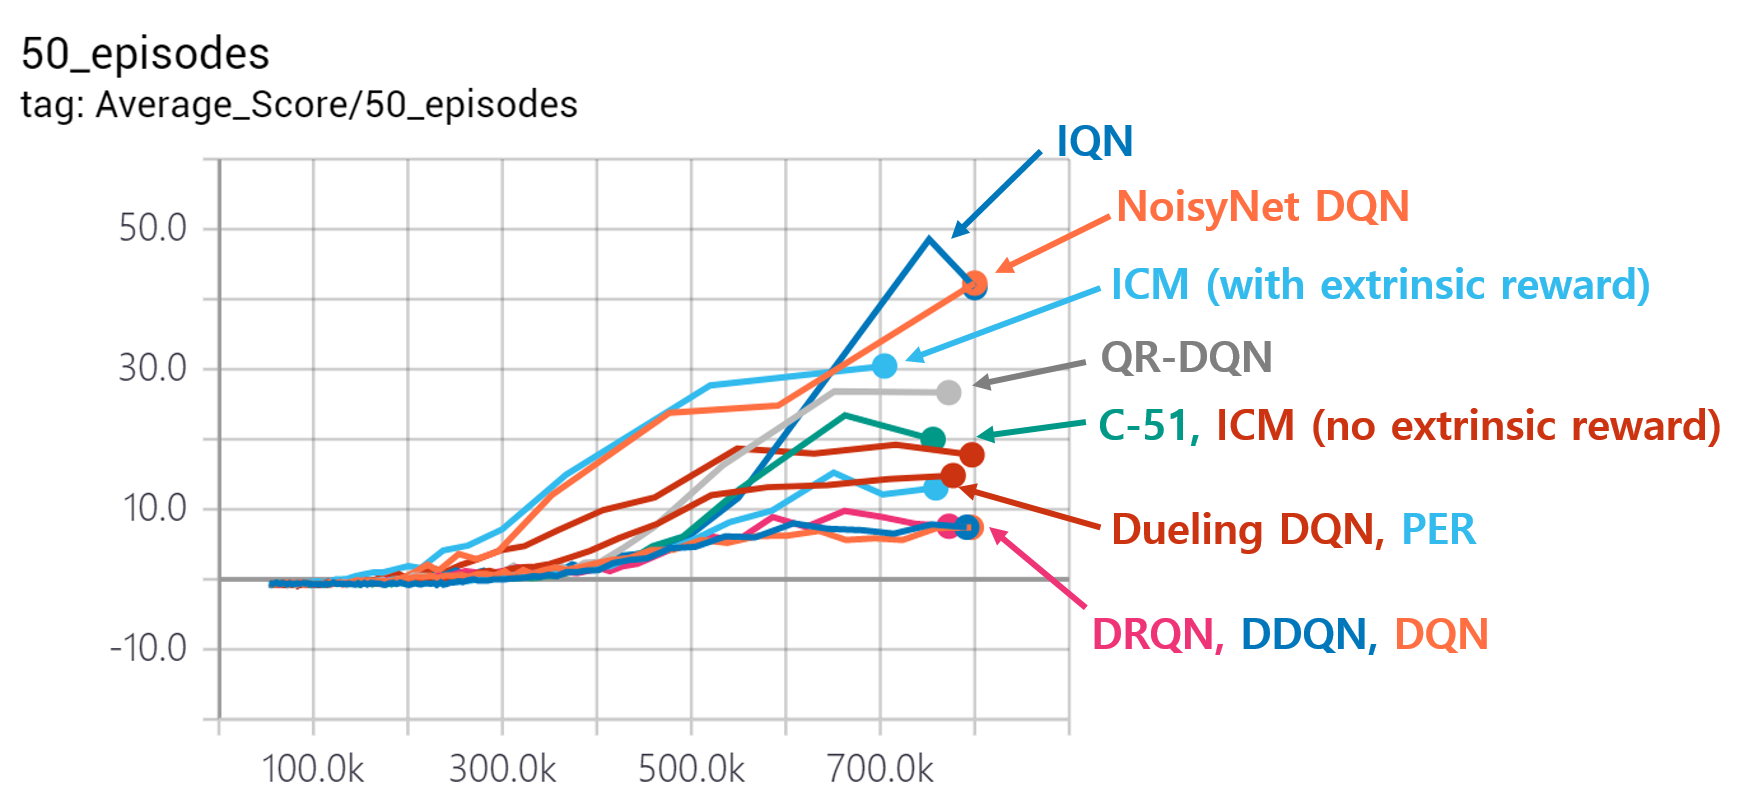
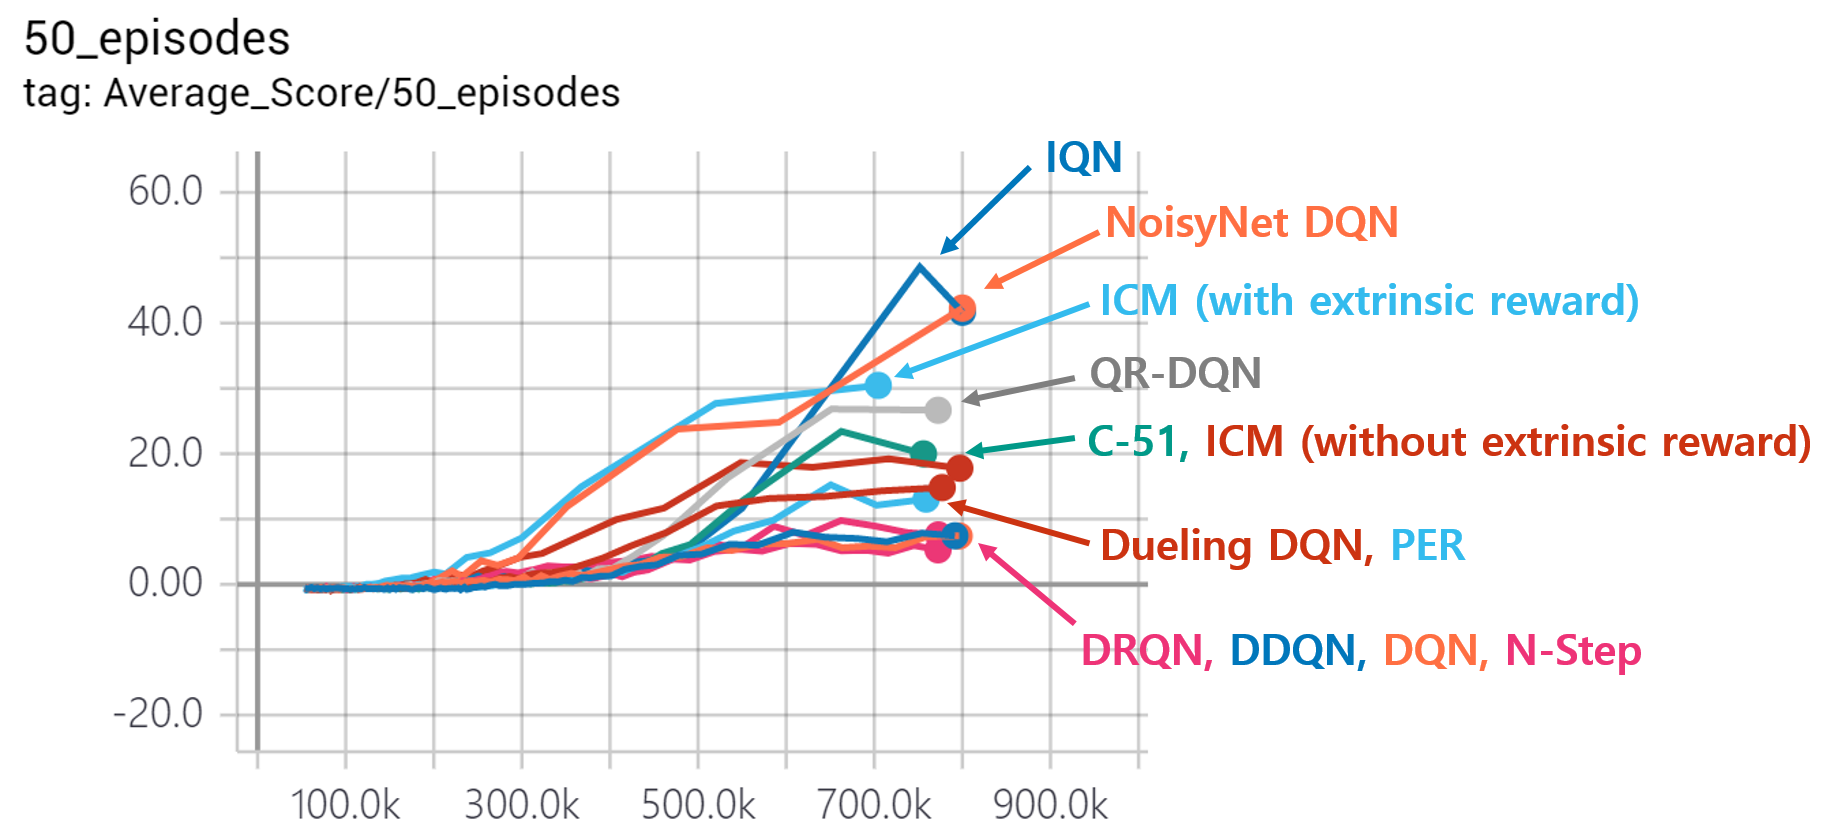
Add Readme about N-step DQN

Changed region(s): [[0.0618, 0.1551, 0.9886, 0.9926], [0.0, 0.031, 0.3398, 0.1551]]

diff --git a/README.md b/README.md
@@ -4,7 +4,7 @@
 This repository is the codes for `Deep Reinforcement Learning`
 <br> I verified my codes with games. The games are made with `pygame`. I made the games or I modified them to apply for DRL. 
 
-Also, environments, which are made by `Unity ML-agents` are in  [Unity_ML_Agent Repository](https://github.com/Kyushik/Unity_ML_Agent)
+Also, environments, which are made by `Unity ML-agents`, are in  [Unity_ML_Agent Repository](https://github.com/Kyushik/Unity_ML_Agent)
 
 <br>
 
@@ -18,16 +18,26 @@ Performance of each algorithm that I implemented are as follows (verified with `
 
  I set up the DRL code as follows. 
 
-* [Human-level Control Through Deep Reinforcement Learning (DQN)](https://storage.googleapis.com/deepmind-media/dqn/DQNNaturePaper.pdf)
-* [Deep Reinforcement Learning with Double Q-Learning (DDQN)](https://arxiv.org/abs/1509.06461) 
-* [Prioritized Experience Replay (PER)](https://arxiv.org/abs/1511.05952) 
-* [Dueling Network Architecture for Deep Reinforcement Learning (Dueling DQN)](https://arxiv.org/abs/1511.06581)
-* [Deep Recurrent Q-Learning for Partially Observable MDPs (DRQN)](https://arxiv.org/abs/1507.06527) 
-* [Noisy Networks for Exploration (NoisyNet DQN)](https://arxiv.org/abs/1706.10295) 
-* [A Distributional Perspective on Reinforcement Learning (C51)](https://arxiv.org/abs/1707.06887) 
-* [Distributional Reinforcement Learning with Quantile Regression(QR-DQN)](https://arxiv.org/abs/1710.10044)
-* [Implicit Quantile Networks for Distributional Reinforcement Learning(IQN)](https://arxiv.org/abs/1806.06923)
-* [Curiosity-driven Exploration by Self-supervised Prediction (ICM)](https://arxiv.org/abs/1705.05363)
+1. [Human-level Control Through Deep Reinforcement Learning (DQN)](https://storage.googleapis.com/deepmind-media/dqn/DQNNaturePaper.pdf)
+
+2. [Deep Reinforcement Learning with Double Q-Learning (DDQN)](https://arxiv.org/abs/1509.06461) 
+
+3. [Prioritized Experience Replay (PER)](https://arxiv.org/abs/1511.05952) 
+
+4. [Dueling Network Architecture for Deep Reinforcement Learning (Dueling DQN)](https://arxiv.org/abs/1511.06581)
+
+5. [Noisy Networks for Exploration (NoisyNet DQN)](https://arxiv.org/abs/1706.10295) 
+
+6. [A Distributional Perspective on Reinforcement Learning (C51)](https://arxiv.org/abs/1707.06887) 
+7. [Learning to Predict by the Methods of Temporal Differences](http://incompleteideas.net/papers/sutton-88-with-erratum.pdf)
+
+8. [Deep Recurrent Q-Learning for Partially Observable MDPs (DRQN)](https://arxiv.org/abs/1507.06527) 
+
+9. [Distributional Reinforcement Learning with Quantile Regression(QR-DQN)](https://arxiv.org/abs/1710.10044)
+
+10. [Implicit Quantile Networks for Distributional Reinforcement Learning(IQN)](https://arxiv.org/abs/1806.06923)
+
+11. [Curiosity-driven Exploration by Self-supervised Prediction (ICM)](https://arxiv.org/abs/1705.05363)
 
 
 This is the [PPT file](https://www.dropbox.com/s/0o72oqe7f5kip4z/DQN.pdf?dl=0) for the `description of DQN codes` that I implemented. 
